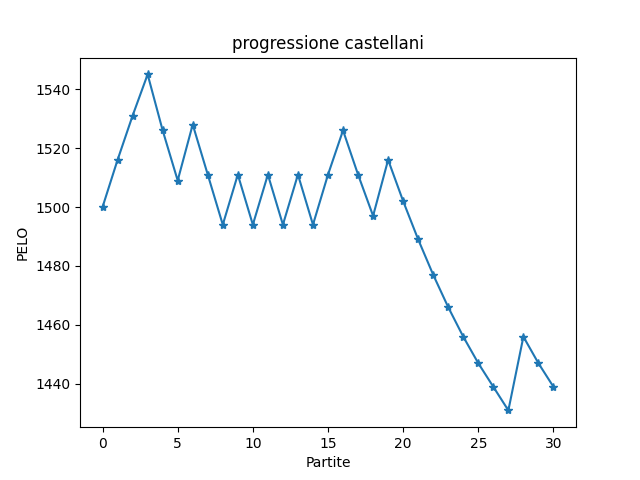
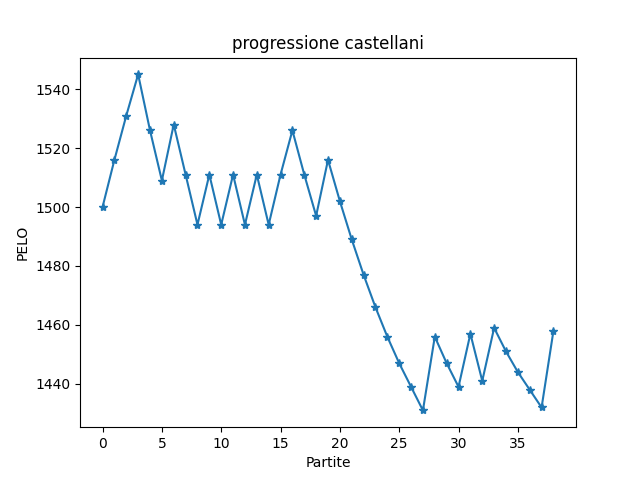
Add files via upload

diff --git a/index.htm b/index.htm
@@ -2,7 +2,7 @@
 <html>
 <link rel='stylesheet' href='style.css'>
 <center><body><br><h1 style='color:blue;'><big>TORNEO ESTATE 2024</big></h1></body><title>Classifica</title>
-<h5>Ultimo aggiornamento: 2024-06-15 alle 18:31:09</h5>
+<h5>Ultimo aggiornamento: 2024-06-17 alle 16:56:01</h5>
 <br><br><h1>Classifica</h1><table border='1' class='dataframe'>
 <thead>
 <tr 'text-align: right;'>
@@ -11,7 +11,7 @@
 </thead>
 <tbody><tr>
 <td>1</td><td>caprile</td>
-<td>1632</td><td><b><center><a href = 'statistiche_caprile.htm'>I</a></center></h3></b>
+<td>1655</td><td><b><center><a href = 'statistiche_caprile.htm'>I</a></center></h3></b>
 </tr>
 <tr>
 <td>2</td><td>devigili</td>
@@ -26,16 +26,16 @@
 <td>1471</td><td><b><center><a href = 'statistiche_scaglia.htm'>I</a></center></h3></b>
 </tr>
 <tr>
-<td>5</td><td>zontini</td>
-<td>1469</td><td><b><center><a href = 'statistiche_zontini.htm'>I</a></center></h3></b>
+<td>5</td><td>castellani</td>
+<td>1458</td><td><b><center><a href = 'statistiche_castellani.htm'>I</a></center></h3></b>
 </tr>
 <tr>
-<td>6</td><td>castellani</td>
-<td>1439</td><td><b><center><a href = 'statistiche_castellani.htm'>I</a></center></h3></b>
+<td>6</td><td>zontini</td>
+<td>1437</td><td><b><center><a href = 'statistiche_zontini.htm'>I</a></center></h3></b>
 </tr>
 </table>
 <br><br><center><h1><b>Statistiche Globali</b></h1></center><center><table id='statistiche' border='1' class='dataframe'>
-<tr><td><b>Più partite fatte</b></td><td>castellani (30)</td></tr>
-<tr><td><b>Più partite vinte</b></td><td>caprile (17)</td></tr>
-<tr><td><b>Percentuale di vittorie più alta</b></td><td>devigili (75.0%)</td></tr>
+<tr><td><b>Più partite fatte</b></td><td>castellani (38)</td></tr>
+<tr><td><b>Più partite vinte</b></td><td>caprile (23)</td></tr>
+<tr><td><b>Percentuale di vittorie più alta</b></td><td>caprile (76.7%)</td></tr>
 </table><br><br><br><br><br><h2><center><a href='storico_partite.html'>Storico partite</a></center></h2><br><br><br><br></html>

diff --git a/statistiche_caprile.htm b/statistiche_caprile.htm
@@ -5,17 +5,17 @@
 <h1><center>Statistiche: caprile</center></h1>
 <center><img src='caprile.png'></center>
 </head><br><br><center><table id='statistiche' border='1' class='dataframe'>
-<tr><td><b>Partite fatte</b></td><td>23</td></tr>
-<tr><td><b>Partite vinte</b></td><td>17 (73.9%)</td></tr>
-<tr><td><b>Record PELO</b></td><td>1637</td></tr>
+<tr><td><b>Partite fatte</b></td><td>30</td></tr>
+<tr><td><b>Partite vinte</b></td><td>23 (76.6%)</td></tr>
+<tr><td><b>Record PELO</b></td><td>1680</td></tr>
 <tr><td><b>Best streak</b></td><td>8</td></tr>
-<tr><td><b>Current streak</b></td><td>2</td></tr>
-<tr><td><b>Punti fatti</b></td><td>240</td></tr>
-<tr><td><b>Punti subiti</b></td><td>192</td></tr>
+<tr><td><b>Current streak</b></td><td>0</td></tr>
+<tr><td><b>Punti fatti</b></td><td>319</td></tr>
+<tr><td><b>Punti subiti</b></td><td>251</td></tr>
 </table></center></body><br><br><center><table id='statistiche' border='1' class='dataframe'>
 <br><h2>Statistiche contro gli altri giocatori</h2><tr><td><b>devigili</b></td><td><b>N/A% (<span style='color:green'>0</span> / <span style='color:red'>0</span>  / 0)</b></td></tr>
 <tr><td><b>tronza</b></td><td><b>N/A% (<span style='color:green'>0</span> / <span style='color:red'>0</span>  / 0)</b></td></tr>
 <tr><td><b>scaglia</b></td><td><b>N/A% (<span style='color:green'>0</span> / <span style='color:red'>0</span>  / 0)</b></td></tr>
-<tr><td><b>zontini</b></td><td><b>100.0% (<span style='color:green'>2</span> / <span style='color:red'>0</span>  / 2)</b></td></tr>
-<tr><td><b>castellani</b></td><td><b>71.4% (<span style='color:green'>15</span> / <span style='color:red'>6</span>  / 21)</b></td></tr>
+<tr><td><b>castellani</b></td><td><b>73.0% (<span style='color:green'>19</span> / <span style='color:red'>7</span>  / 26)</b></td></tr>
+<tr><td><b>zontini</b></td><td><b>100.0% (<span style='color:green'>4</span> / <span style='color:red'>0</span>  / 4)</b></td></tr>
 <br><br><br></html>

diff --git a/statistiche_castellani.htm b/statistiche_castellani.htm
@@ -5,17 +5,17 @@
 <h1><center>Statistiche: castellani</center></h1>
 <center><img src='castellani.png'></center>
 </head><br><br><center><table id='statistiche' border='1' class='dataframe'>
-<tr><td><b>Partite fatte</b></td><td>30</td></tr>
-<tr><td><b>Partite vinte</b></td><td>11 (36.6%)</td></tr>
+<tr><td><b>Partite fatte</b></td><td>38</td></tr>
+<tr><td><b>Partite vinte</b></td><td>14 (36.8%)</td></tr>
 <tr><td><b>Record PELO</b></td><td>1545</td></tr>
 <tr><td><b>Best streak</b></td><td>3</td></tr>
-<tr><td><b>Current streak</b></td><td>0</td></tr>
-<tr><td><b>Punti fatti</b></td><td>260</td></tr>
-<tr><td><b>Punti subiti</b></td><td>304</td></tr>
+<tr><td><b>Current streak</b></td><td>1</td></tr>
+<tr><td><b>Punti fatti</b></td><td>335</td></tr>
+<tr><td><b>Punti subiti</b></td><td>389</td></tr>
 </table></center></body><br><br><center><table id='statistiche' border='1' class='dataframe'>
-<br><h2>Statistiche contro gli altri giocatori</h2><tr><td><b>caprile</b></td><td><b>28.5% (<span style='color:green'>6</span> / <span style='color:red'>15</span>  / 21)</b></td></tr>
+<br><h2>Statistiche contro gli altri giocatori</h2><tr><td><b>caprile</b></td><td><b>26.9% (<span style='color:green'>7</span> / <span style='color:red'>19</span>  / 26)</b></td></tr>
 <tr><td><b>devigili</b></td><td><b>0.0% (<span style='color:green'>0</span> / <span style='color:red'>2</span>  / 2)</b></td></tr>
 <tr><td><b>tronza</b></td><td><b>N/A% (<span style='color:green'>0</span> / <span style='color:red'>0</span>  / 0)</b></td></tr>
 <tr><td><b>scaglia</b></td><td><b>N/A% (<span style='color:green'>0</span> / <span style='color:red'>0</span>  / 0)</b></td></tr>
-<tr><td><b>zontini</b></td><td><b>71.4% (<span style='color:green'>5</span> / <span style='color:red'>2</span>  / 7)</b></td></tr>
+<tr><td><b>zontini</b></td><td><b>70.0% (<span style='color:green'>7</span> / <span style='color:red'>3</span>  / 10)</b></td></tr>
 <br><br><br></html>

diff --git a/statistiche_zontini.htm b/statistiche_zontini.htm
@@ -5,17 +5,17 @@
 <h1><center>Statistiche: zontini</center></h1>
 <center><img src='zontini.png'></center>
 </head><br><br><center><table id='statistiche' border='1' class='dataframe'>
-<tr><td><b>Partite fatte</b></td><td>14</td></tr>
-<tr><td><b>Partite vinte</b></td><td>6 (42.8%)</td></tr>
+<tr><td><b>Partite fatte</b></td><td>19</td></tr>
+<tr><td><b>Partite vinte</b></td><td>7 (36.8%)</td></tr>
 <tr><td><b>Record PELO</b></td><td>1561</td></tr>
 <tr><td><b>Best streak</b></td><td>4</td></tr>
 <tr><td><b>Current streak</b></td><td>0</td></tr>
-<tr><td><b>Punti fatti</b></td><td>126</td></tr>
-<tr><td><b>Punti subiti</b></td><td>129</td></tr>
+<tr><td><b>Punti fatti</b></td><td>172</td></tr>
+<tr><td><b>Punti subiti</b></td><td>185</td></tr>
 </table></center></body><br><br><center><table id='statistiche' border='1' class='dataframe'>
-<br><h2>Statistiche contro gli altri giocatori</h2><tr><td><b>caprile</b></td><td><b>0.0% (<span style='color:green'>0</span> / <span style='color:red'>2</span>  / 2)</b></td></tr>
+<br><h2>Statistiche contro gli altri giocatori</h2><tr><td><b>caprile</b></td><td><b>0.0% (<span style='color:green'>0</span> / <span style='color:red'>4</span>  / 4)</b></td></tr>
 <tr><td><b>devigili</b></td><td><b>50.0% (<span style='color:green'>1</span> / <span style='color:red'>1</span>  / 2)</b></td></tr>
 <tr><td><b>tronza</b></td><td><b>100.0% (<span style='color:green'>1</span> / <span style='color:red'>0</span>  / 1)</b></td></tr>
 <tr><td><b>scaglia</b></td><td><b>100.0% (<span style='color:green'>2</span> / <span style='color:red'>0</span>  / 2)</b></td></tr>
-<tr><td><b>castellani</b></td><td><b>28.5% (<span style='color:green'>2</span> / <span style='color:red'>5</span>  / 7)</b></td></tr>
+<tr><td><b>castellani</b></td><td><b>30.0% (<span style='color:green'>3</span> / <span style='color:red'>7</span>  / 10)</b></td></tr>
 <br><br><br></html>

diff --git a/storico_partite.html b/storico_partite.html
@@ -153,5 +153,45 @@
 <td>37</td><td>castellani</td>
 <td>caprile</td><td><b><center>7-11</center></h3></b>
 </tr>
+<tr>
+<td>38</td><td>castellani</td>
+<td>zontini</td><td><b><center>12-10</center></h3></b>
+</tr>
+<tr>
+<td>39</td><td>castellani</td>
+<td>zontini</td><td><b><center>9-11</center></h3></b>
+</tr>
+<tr>
+<td>40</td><td>castellani</td>
+<td>zontini</td><td><b><center>11-9</center></h3></b>
+</tr>
+<tr>
+<td>41</td><td>castellani</td>
+<td>caprile</td><td><b><center>7-11</center></h3></b>
+</tr>
+<tr>
+<td>42</td><td>caprile</td>
+<td>zontini</td><td><b><center>11-5</center></h3></b>
+</tr>
+<tr>
+<td>43</td><td>castellani</td>
+<td>caprile</td><td><b><center>6-11</center></h3></b>
+</tr>
+<tr>
+<td>44</td><td>caprile</td>
+<td>zontini</td><td><b><center>13-11</center></h3></b>
+</tr>
+<tr>
+<td>45</td><td>castellani</td>
+<td>caprile</td><td><b><center>7-11</center></h3></b>
+</tr>
+<tr>
+<td>46</td><td>castellani</td>
+<td>caprile</td><td><b><center>12-14</center></h3></b>
+</tr>
+<tr>
+<td>47</td><td>castellani</td>
+<td>caprile</td><td><b><center>11-8</center></h3></b>
+</tr>
 </table></center>
 </html>

diff --git a/statistiche_devigili.htm b/statistiche_devigili.htm
@@ -16,6 +16,6 @@
 <br><h2>Statistiche contro gli altri giocatori</h2><tr><td><b>caprile</b></td><td><b>N/A% (<span style='color:green'>0</span> / <span style='color:red'>0</span>  / 0)</b></td></tr>
 <tr><td><b>tronza</b></td><td><b>N/A% (<span style='color:green'>0</span> / <span style='color:red'>0</span>  / 0)</b></td></tr>
 <tr><td><b>scaglia</b></td><td><b>N/A% (<span style='color:green'>0</span> / <span style='color:red'>0</span>  / 0)</b></td></tr>
-<tr><td><b>zontini</b></td><td><b>50.0% (<span style='color:green'>1</span> / <span style='color:red'>1</span>  / 2)</b></td></tr>
 <tr><td><b>castellani</b></td><td><b>100.0% (<span style='color:green'>2</span> / <span style='color:red'>0</span>  / 2)</b></td></tr>
+<tr><td><b>zontini</b></td><td><b>50.0% (<span style='color:green'>1</span> / <span style='color:red'>1</span>  / 2)</b></td></tr>
 <br><br><br></html>

diff --git a/statistiche_tronza.htm b/statistiche_tronza.htm
@@ -16,6 +16,6 @@
 <br><h2>Statistiche contro gli altri giocatori</h2><tr><td><b>caprile</b></td><td><b>N/A% (<span style='color:green'>0</span> / <span style='color:red'>0</span>  / 0)</b></td></tr>
 <tr><td><b>devigili</b></td><td><b>N/A% (<span style='color:green'>0</span> / <span style='color:red'>0</span>  / 0)</b></td></tr>
 <tr><td><b>scaglia</b></td><td><b>N/A% (<span style='color:green'>0</span> / <span style='color:red'>0</span>  / 0)</b></td></tr>
-<tr><td><b>zontini</b></td><td><b>0.0% (<span style='color:green'>0</span> / <span style='color:red'>1</span>  / 1)</b></td></tr>
 <tr><td><b>castellani</b></td><td><b>N/A% (<span style='color:green'>0</span> / <span style='color:red'>0</span>  / 0)</b></td></tr>
+<tr><td><b>zontini</b></td><td><b>0.0% (<span style='color:green'>0</span> / <span style='color:red'>1</span>  / 1)</b></td></tr>
 <br><br><br></html>

diff --git a/statistiche_scaglia.htm b/statistiche_scaglia.htm
@@ -16,6 +16,6 @@
 <br><h2>Statistiche contro gli altri giocatori</h2><tr><td><b>caprile</b></td><td><b>N/A% (<span style='color:green'>0</span> / <span style='color:red'>0</span>  / 0)</b></td></tr>
 <tr><td><b>devigili</b></td><td><b>N/A% (<span style='color:green'>0</span> / <span style='color:red'>0</span>  / 0)</b></td></tr>
 <tr><td><b>tronza</b></td><td><b>N/A% (<span style='color:green'>0</span> / <span style='color:red'>0</span>  / 0)</b></td></tr>
-<tr><td><b>zontini</b></td><td><b>0.0% (<span style='color:green'>0</span> / <span style='color:red'>2</span>  / 2)</b></td></tr>
 <tr><td><b>castellani</b></td><td><b>N/A% (<span style='color:green'>0</span> / <span style='color:red'>0</span>  / 0)</b></td></tr>
+<tr><td><b>zontini</b></td><td><b>0.0% (<span style='color:green'>0</span> / <span style='color:red'>2</span>  / 2)</b></td></tr>
 <br><br><br></html>
